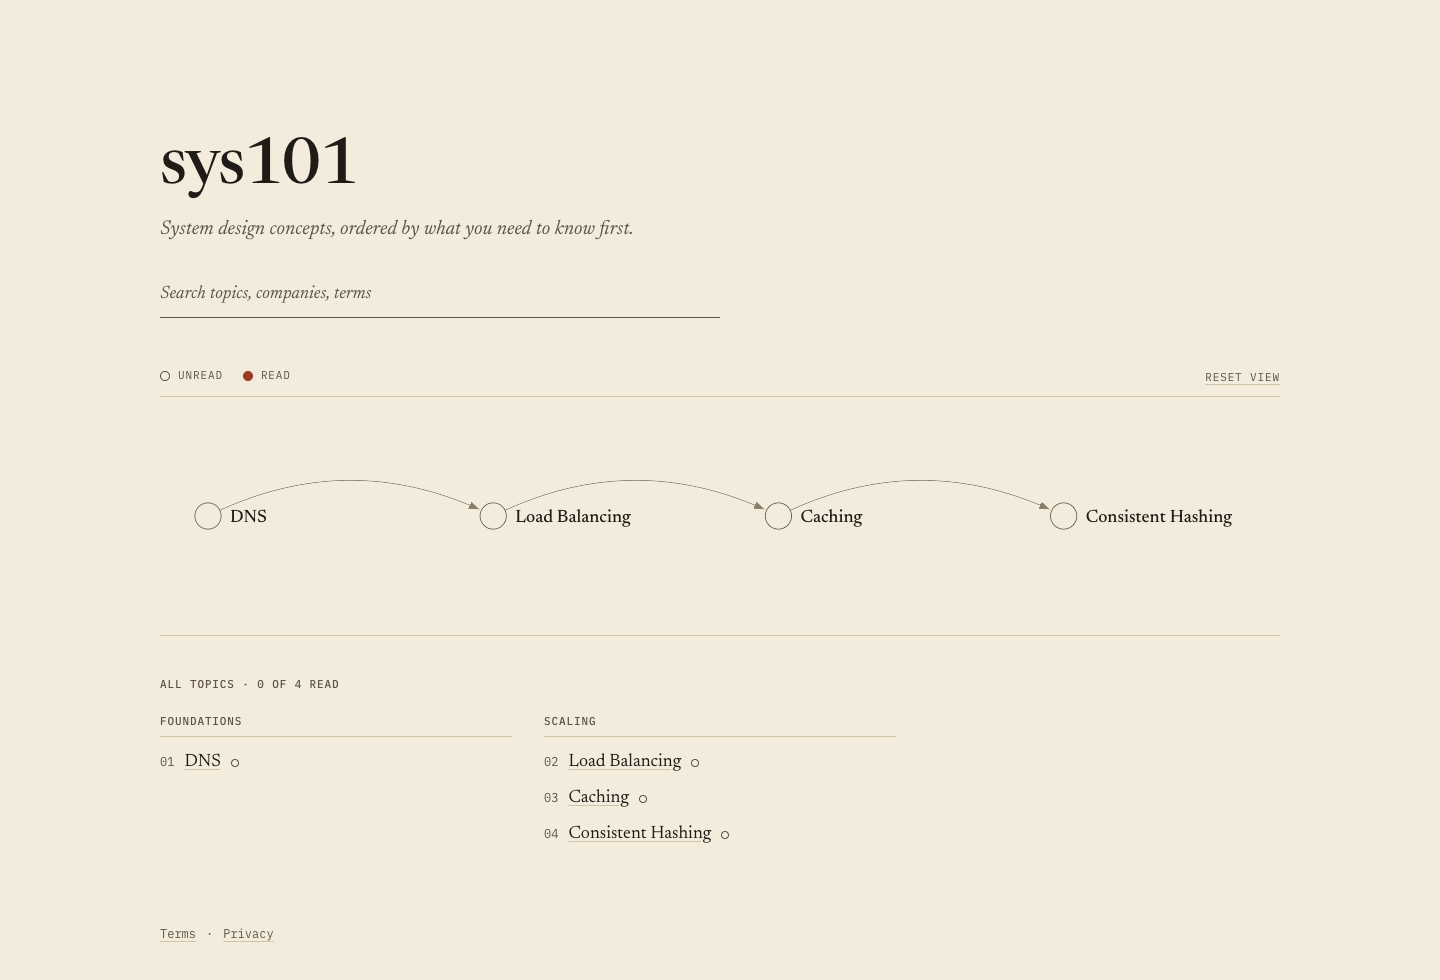
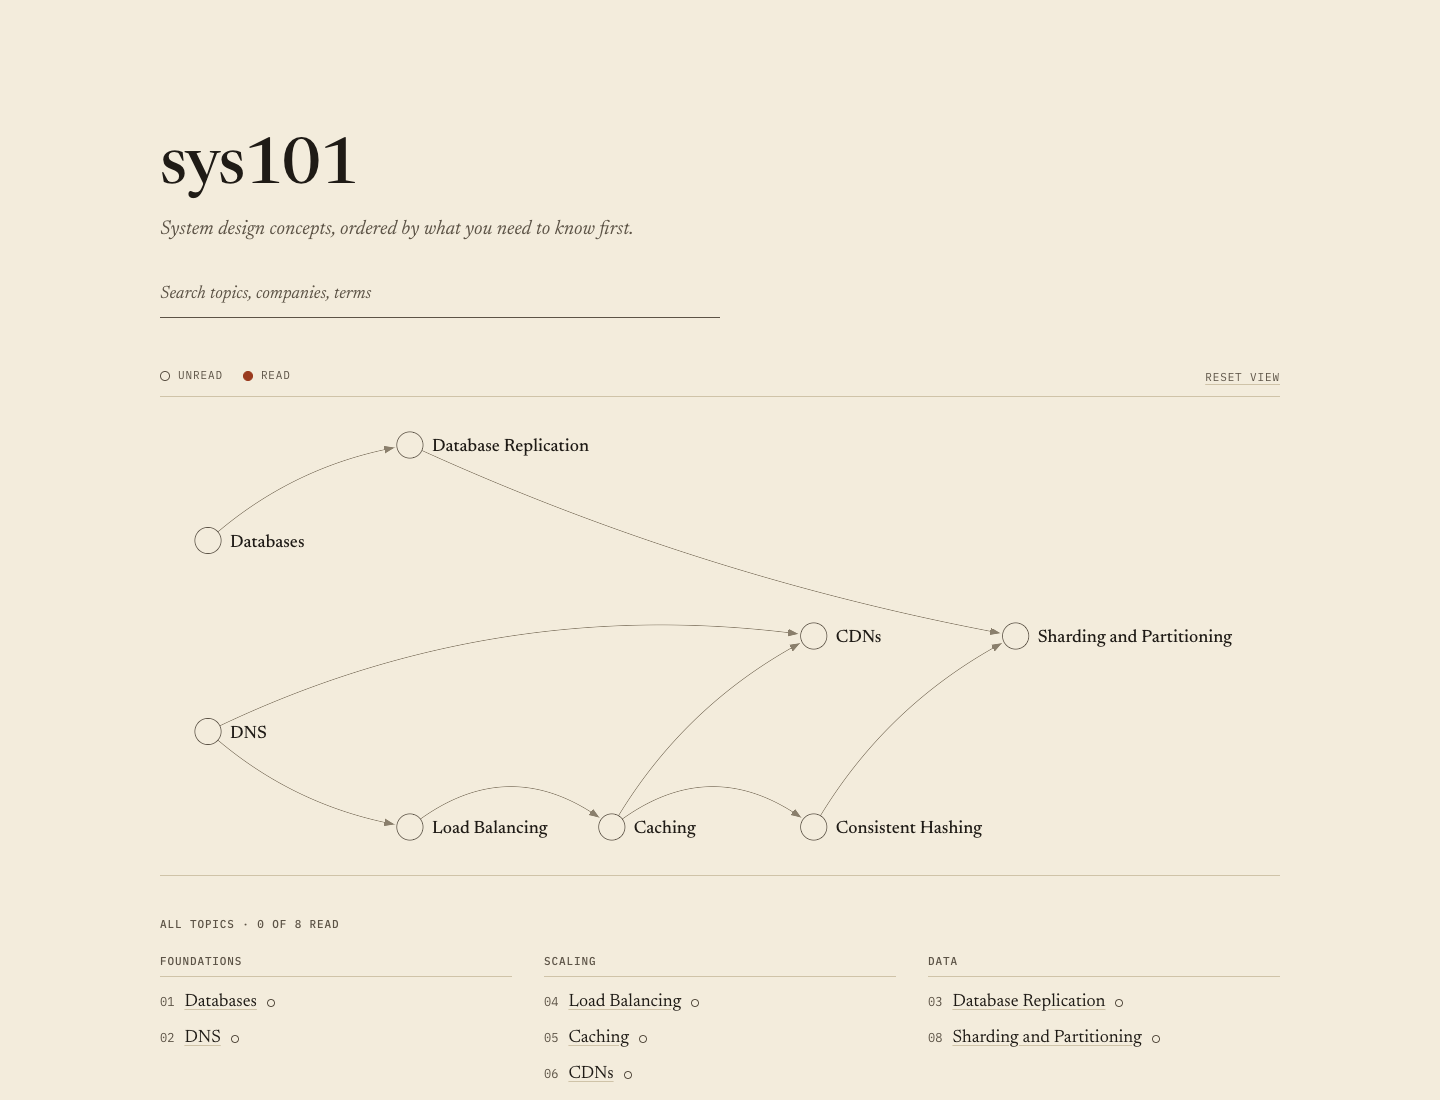
Publication dates for existing posts; README topics, link checks, screenshot

diff --git a/README.md b/README.md
@@ -2,13 +2,28 @@
 
 A system design course built as a prerequisite graph, taught through how real companies engineered each concept.
 
-![The sys101 homepage: a map of four topics, DNS, Load Balancing, Caching and Consistent Hashing, joined by arrows that show which topic builds on which.](docs/graph.png)
+![The sys101 homepage: a map of eight topics, from Databases and DNS through Load Balancing, Caching, Database Replication, Consistent Hashing and CDNs to Sharding and Partitioning, joined by arrows that show which topic builds on which.](docs/graph.png)
 
 Live at [sys101.vercel.app](https://sys101.vercel.app).
 
 ## Why this exists
 
 Learning system design from engineering blogs is hard because nothing tells you which post to read first, or what you need to know before it makes sense. Good posts assume background that a different post explains. sys101 orders concepts by their prerequisites and attaches vetted engineering posts to each one, so there is always a clear next thing to read.
+
+## Topics
+
+| Group | Topic | Builds on | Posts from |
+|---|---|---|---|
+| Foundations | Databases | none | Uber (2016), GitHub |
+| Foundations | DNS | none | Cloudflare, Slack |
+| Scaling | Load Balancing | DNS | Uber, Dropbox |
+| Scaling | Caching | Load Balancing | Meta, Uber |
+| Scaling | Consistent Hashing | Caching | Cloudflare, Discord (2017) |
+| Scaling | CDNs | DNS, Caching | Cloudflare, Netflix (2017) |
+| Data | Database Replication | Databases | Meta, GitHub (2018) |
+| Data | Sharding and Partitioning | Database Replication, Consistent Hashing | Figma, Notion |
+
+Years are shown for posts more than five years old; each topic page explains why they still apply.
 
 ## How it works
 
@@ -22,7 +37,7 @@ A post is included only if it passes most of these:
 
 1. **Specific.** Real numbers: latency, throughput, request volume, error rates.
 2. **Honest about trade-offs.** What was tried, what failed, and why the final design won.
-3. **Still relevant.** Describes architecture in use today, not abandoned infrastructure.
+3. **Still relevant.** Describes architecture in use today. A post older than about five years passes only if it teaches a fundamental that has not changed, and its year is shown on the page.
 4. **Credible.** Written by the engineering team that runs the system at scale. No listicles or marketing posts.
 5. **Transferable.** Teaches something that applies to a concept in the graph.
 
@@ -37,6 +52,10 @@ pipeline/ (offline, run by hand)
 ```
 
 The site is read-heavy and its content changes rarely, so every page is generated at build time and served as static files from a CDN, with search running in the browser against a prebuilt index. The content pipeline is decoupled from the site and idempotent: it only produces JSON for review, so a failed or repeated run never affects what readers see.
+
+## Link checks
+
+Every post records `verifiedOn`, the date someone last opened it and checked the digest, and each source link shows "Checked on <date>". A GitHub Action (`.github/workflows/link-check.yml`) requests every source URL each Monday and keeps one "Source links failing" issue in sync: it opens the issue, rewrites it on later runs, and closes it once every link passes, so reruns never duplicate it. Pages never fetch sources at runtime, so a dead link only affects the outbound link. Run it locally with `node scripts/check-links.mjs`.
 
 ## Stack
 
@@ -54,6 +73,8 @@ components/       graph view, topic page, index, search, read toggle
 content/topics/   one JSON file per topic
 lib/              content loading and build checks, graph layout, reading progress
 pipeline/         offline scripts for fetching and summarizing posts
+scripts/          weekly source link check
+.github/          the scheduled link-check workflow
 public/           static files; public/pagefind is generated by the build
 docs/             images for this README
 ```
@@ -69,7 +90,7 @@ npm run search:index   # build the search index for local dev; rerun after conte
 npm run build          # static build, then the Pagefind index
 ```
 
-The build fails if a topic lists a prerequisite with no topic file, if prerequisites form a cycle, if any section is empty (including each post's digest), if a quiz has fewer than 3 or more than 5 questions, or if a diagram uses gradients, filters or scripts or lacks a title.
+The build fails if a topic lists a prerequisite or related topic with no topic file, if prerequisites form a cycle, if any section is empty (including each post's digest), if a quiz has fewer than 3 or more than 5 questions, if a diagram uses gradients, filters or scripts or lacks a title, if `verifiedOn` or `published` is missing or in the future, or if a post over five years old has no `ageNote`.
 
 ## Adding a topic
 
@@ -85,6 +106,7 @@ Create `content/topics/<slug>.json`. A shortened example:
   "primer": "A short recap of what the prerequisites taught.",
   "posts": [{
     "title": "Post title", "url": "https://...", "company": "Company",
+    "verifiedOn": "2026-10-11", "published": "2024-03-14",
     "digest": {
       "problem": "...", "constraints": "...",
       "walkthrough": [{ "step": "...", "explanation": "..." }],
@@ -107,6 +129,7 @@ Before committing:
 - The post passes the selection rules above.
 - The digest is written in your own words from the post itself, with no copied passages.
 - Every number is checked against the post. Never estimate or round in a way the post does not.
+- A post over five years old has an `ageNote` saying why it still applies, without claiming details still hold unless a source you opened says so.
 
 ## Content and attribution
 
@@ -116,7 +139,7 @@ Every post belongs to its authors. The digests are original write-ups of what ea
 
 - Sync reading progress across devices
 - Interview-relevance tags on topics
-- Staleness flags for posts that describe outdated systems
+- Staleness review driven by link-check results and post age
 - An LLM pipeline (Gemini Flash) to draft digests and comparisons for review
 
 ## License
